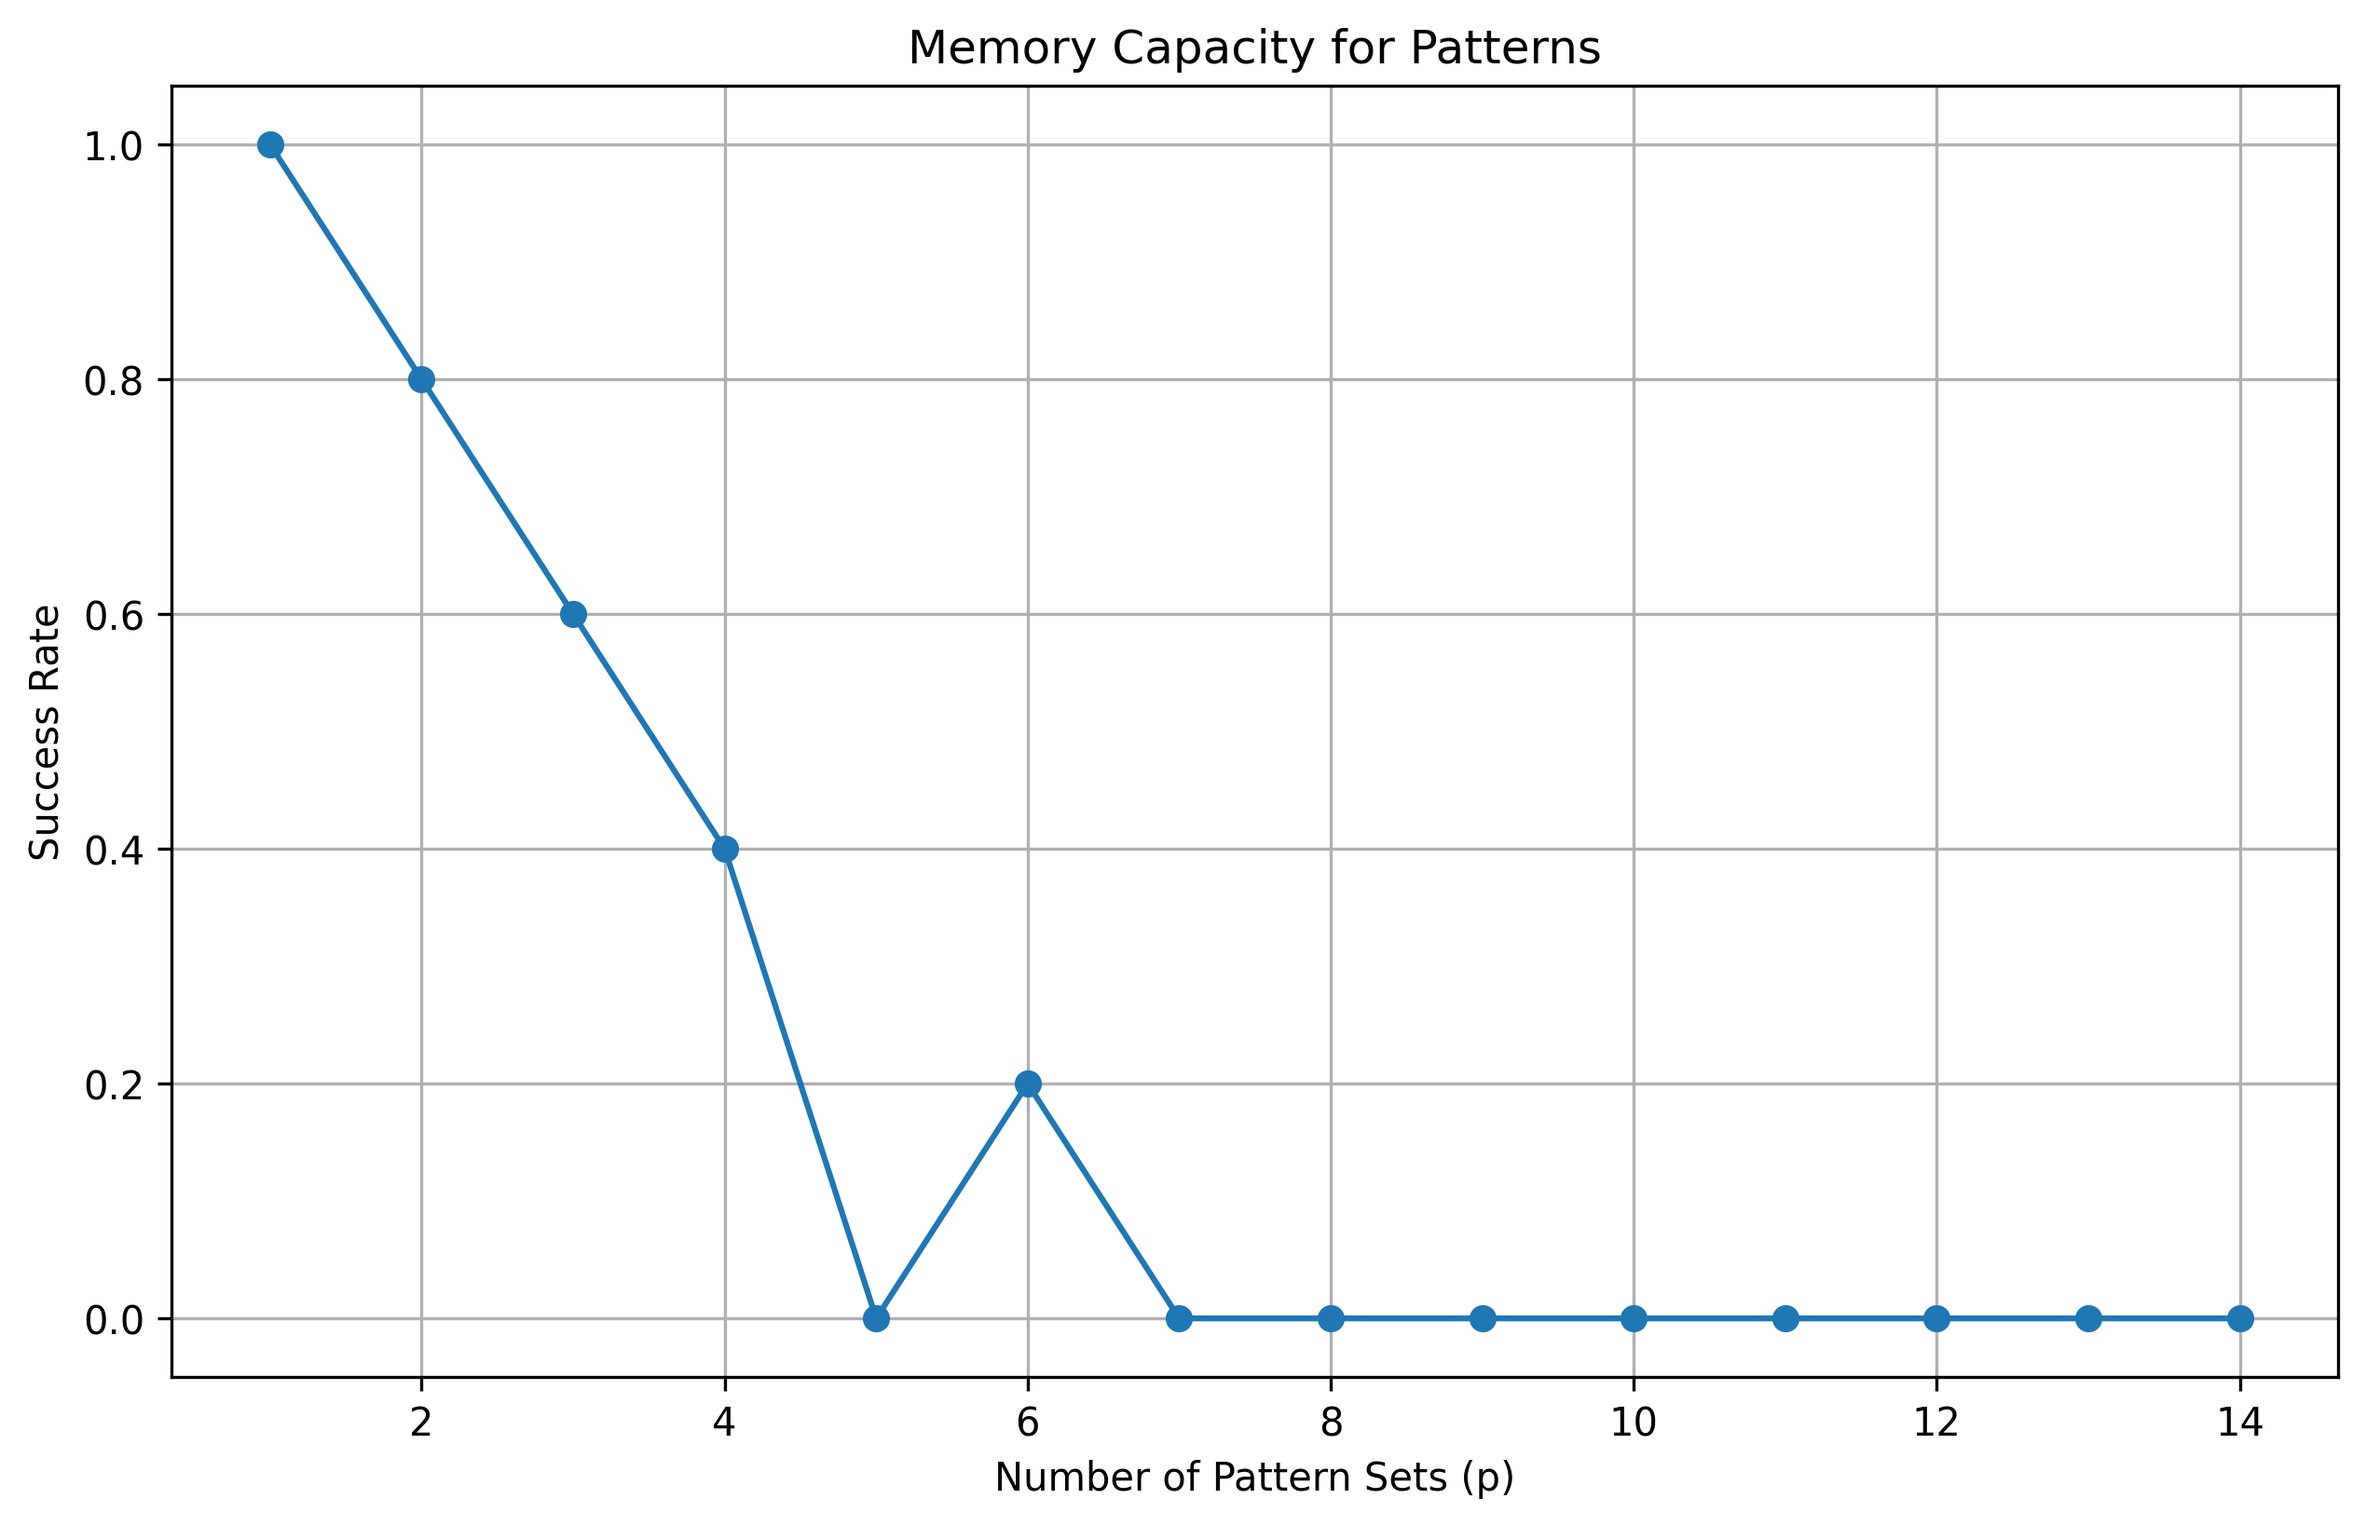
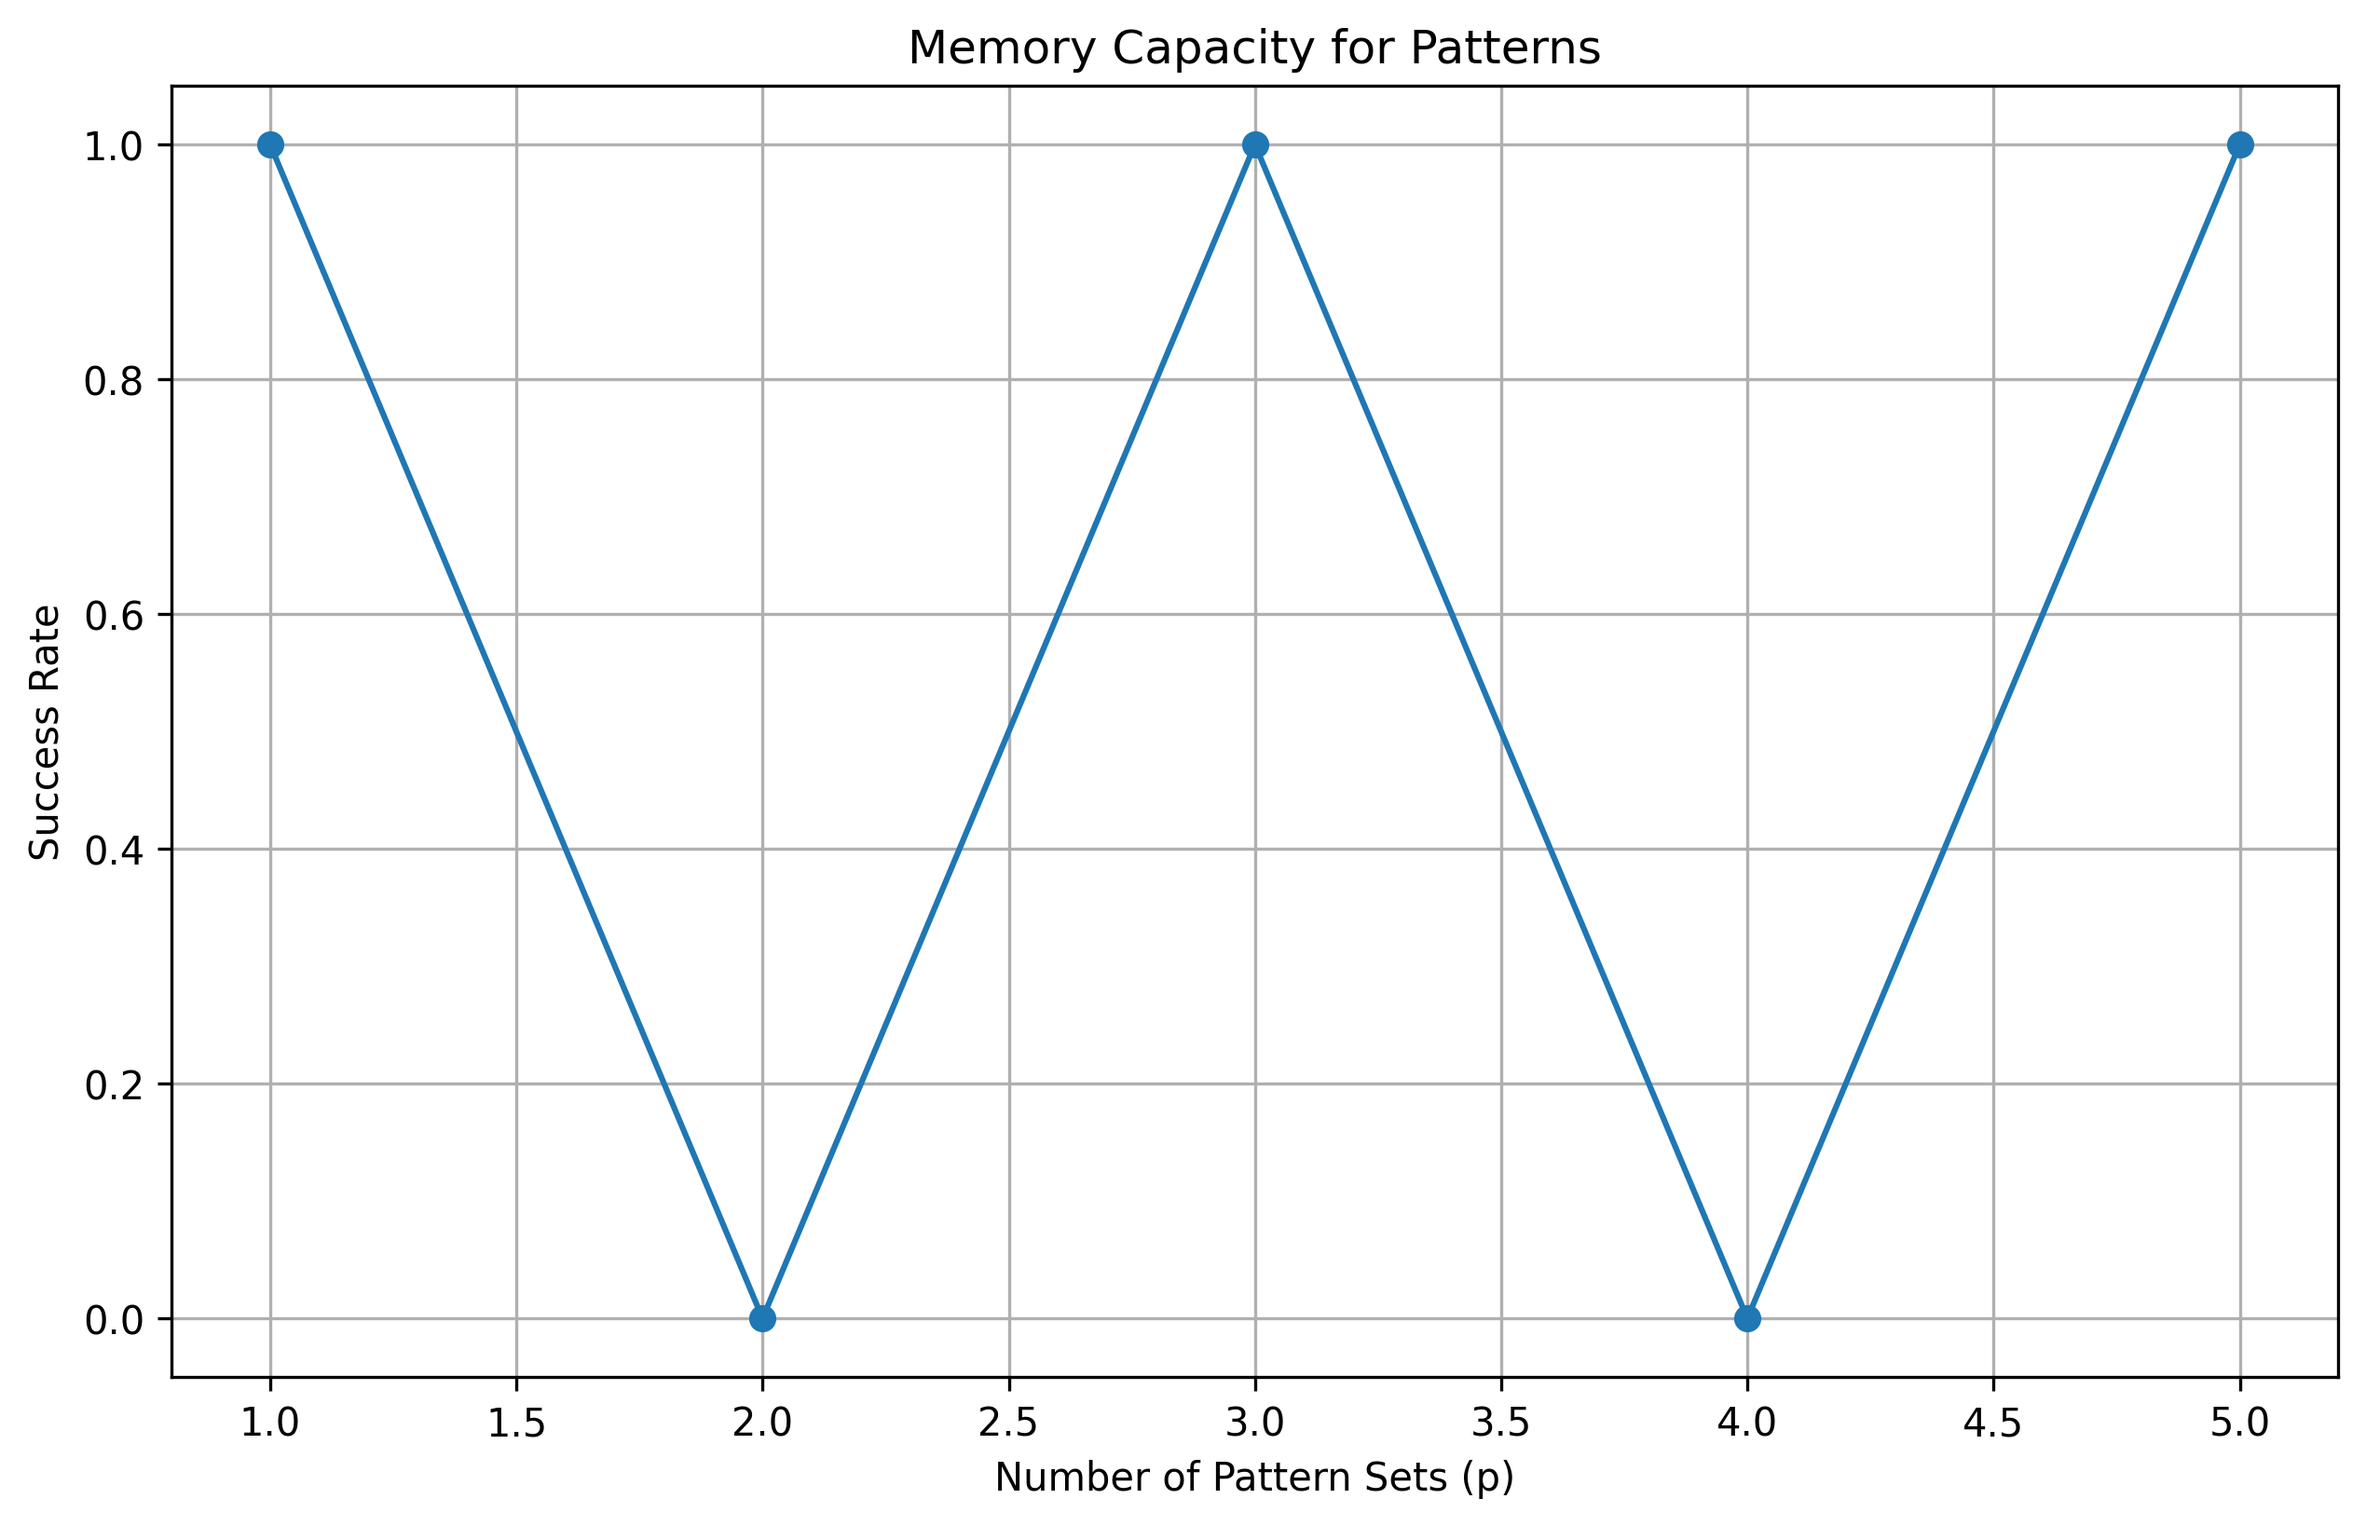
Included Stored vs. attractor energies plot

diff --git a/src/training.py b/src/training.py
@@ -71,6 +71,10 @@ def determine_memory_capacity(network_size, max_patterns, trials, noise_level, m
             net = HopfieldNetwork(size=network_size)
             net.train(all_patterns)
 
+            # Plot the energies of inscribed vs. attractor for z-patterns (just one example)
+            plot_inscribed_vs_attractor_energies(z_patterns, x_patterns, y_patterns, net, noise_level, max_steps)
+
+
             # Accumulate energy values
             total_energy_x += sum(calculate_energy(x, net.weights) for x in x_patterns)
             total_energy_y += sum(calculate_energy(y, net.weights) for y in y_patterns)
@@ -81,7 +85,7 @@ def determine_memory_capacity(network_size, max_patterns, trials, noise_level, m
 
         # Compute averages
         success_rates[p] = success_count / trials
-        num_patterns_total = p * trials
+        num_patterns_total = 3 * p * trials
         energy_dict["x"].append(total_energy_x / num_patterns_total)
         energy_dict["y"].append(total_energy_y / num_patterns_total)
         energy_dict["z"].append(total_energy_z / num_patterns_total)
@@ -128,10 +132,83 @@ def plot_overlaps(overlap_dict, max_patterns, path="plots/overlaps.png"):
     plt.grid(True)
     plt.savefig(path, dpi=300, bbox_inches='tight')
     plt.close()
+
+def plot_inscribed_vs_attractor_energies(z_patterns, x_patterns, y_patterns, net, noise_level, max_steps, path="plots/energy_per_pattern.png"):
+    """
+    For each pattern triplet (Z, X, Y):
+      - Compute the energy of the stored (inscribed) pattern (blue dot for each type).
+      - Add noise and recall it, then compute the energy of the attractor (red cross for each type).
+      - Plot all energies on the same x-axis index with no lines connecting them.
+    """
+    # Initialize lists for stored and attractor energies for each pattern type
+    energies_stored_z = []
+    energies_attractor_z = []
+    energies_stored_x = []
+    energies_attractor_x = []
+    energies_stored_y = []
+    energies_attractor_y = []
+
+    # Discrete x-axis indices for each pattern triplet
+    pattern_indices = range(len(z_patterns))
+
+    for i in pattern_indices:
+        # Get each pattern from the triplet
+        stored_z = z_patterns[i]
+        stored_x = x_patterns[i]
+        stored_y = y_patterns[i]
+
+        # Compute energy of the inscribed (stored) patterns
+        E_stored_z = calculate_energy(stored_z, net.weights)
+        E_stored_x = calculate_energy(stored_x, net.weights)
+        E_stored_y = calculate_energy(stored_y, net.weights)
+
+        # Add noise and recall each pattern
+        noisy_z = add_noise_to_pattern(stored_z, noise_level)
+        recalled_z, _ = net.recall(noisy_z, stored_z, max_steps)
+        noisy_x = add_noise_to_pattern(stored_x, noise_level)
+        recalled_x, _ = net.recall(noisy_x, stored_x, max_steps)
+        noisy_y = add_noise_to_pattern(stored_y, noise_level)
+        recalled_y, _ = net.recall(noisy_y, stored_y, max_steps)
+
+        # Compute energy of the attractors
+        E_attractor_z = calculate_energy(recalled_z, net.weights)
+        E_attractor_x = calculate_energy(recalled_x, net.weights)
+        E_attractor_y = calculate_energy(recalled_y, net.weights)
+
+        # Append the energies to the lists
+        energies_stored_z.append(E_stored_z)
+        energies_attractor_z.append(E_attractor_z)
+        energies_stored_x.append(E_stored_x)
+        energies_attractor_x.append(E_attractor_x)
+        energies_stored_y.append(E_stored_y)
+        energies_attractor_y.append(E_attractor_y)
+
+    # Create the plot
+    plt.figure(figsize=(10, 6))
+
+    # Plot stored (inscribed) energies for each pattern type (blue dots)
+    plt.scatter(pattern_indices, energies_stored_z, color='blue', marker='o', label='Stored Z-Patterns')
+    plt.scatter(pattern_indices, energies_stored_x, color='cyan', marker='o', label='Stored X-Patterns')
+    plt.scatter(pattern_indices, energies_stored_y, color='magenta', marker='o', label='Stored Y-Patterns')
+
+    # Plot attractor energies for each pattern type (red crosses)
+    plt.scatter(pattern_indices, energies_attractor_z, color='red', marker='x', label='Attractor Z-Patterns')
+    plt.scatter(pattern_indices, energies_attractor_x, color='orange', marker='x', label='Attractor X-Patterns')
+    plt.scatter(pattern_indices, energies_attractor_y, color='green', marker='x', label='Attractor Y-Patterns')
+
+    plt.xlabel("Pattern Index")
+    plt.ylabel("Energy")
+    plt.title("Stored vs. Attractor Energies for Z-, X-, and Y-Patterns")
+    plt.legend()
+    plt.grid(True)
+    plt.savefig(path, dpi=300, bbox_inches='tight')
+    plt.close()
+
+
 # Example usage
 network_size = 100  # Number of neurons in the Hopfield network
-max_patterns = 14   # Maximum number of pattern sets to test
-trials = 10         # Number of trials per pattern set
+max_patterns = 5     # Maximum number of pattern sets to test
+trials = 1          # Number of trials per pattern set
 noise_level = 0.2   # Noise level in patterns
 max_steps = 10000   # Max update steps for recall
 
